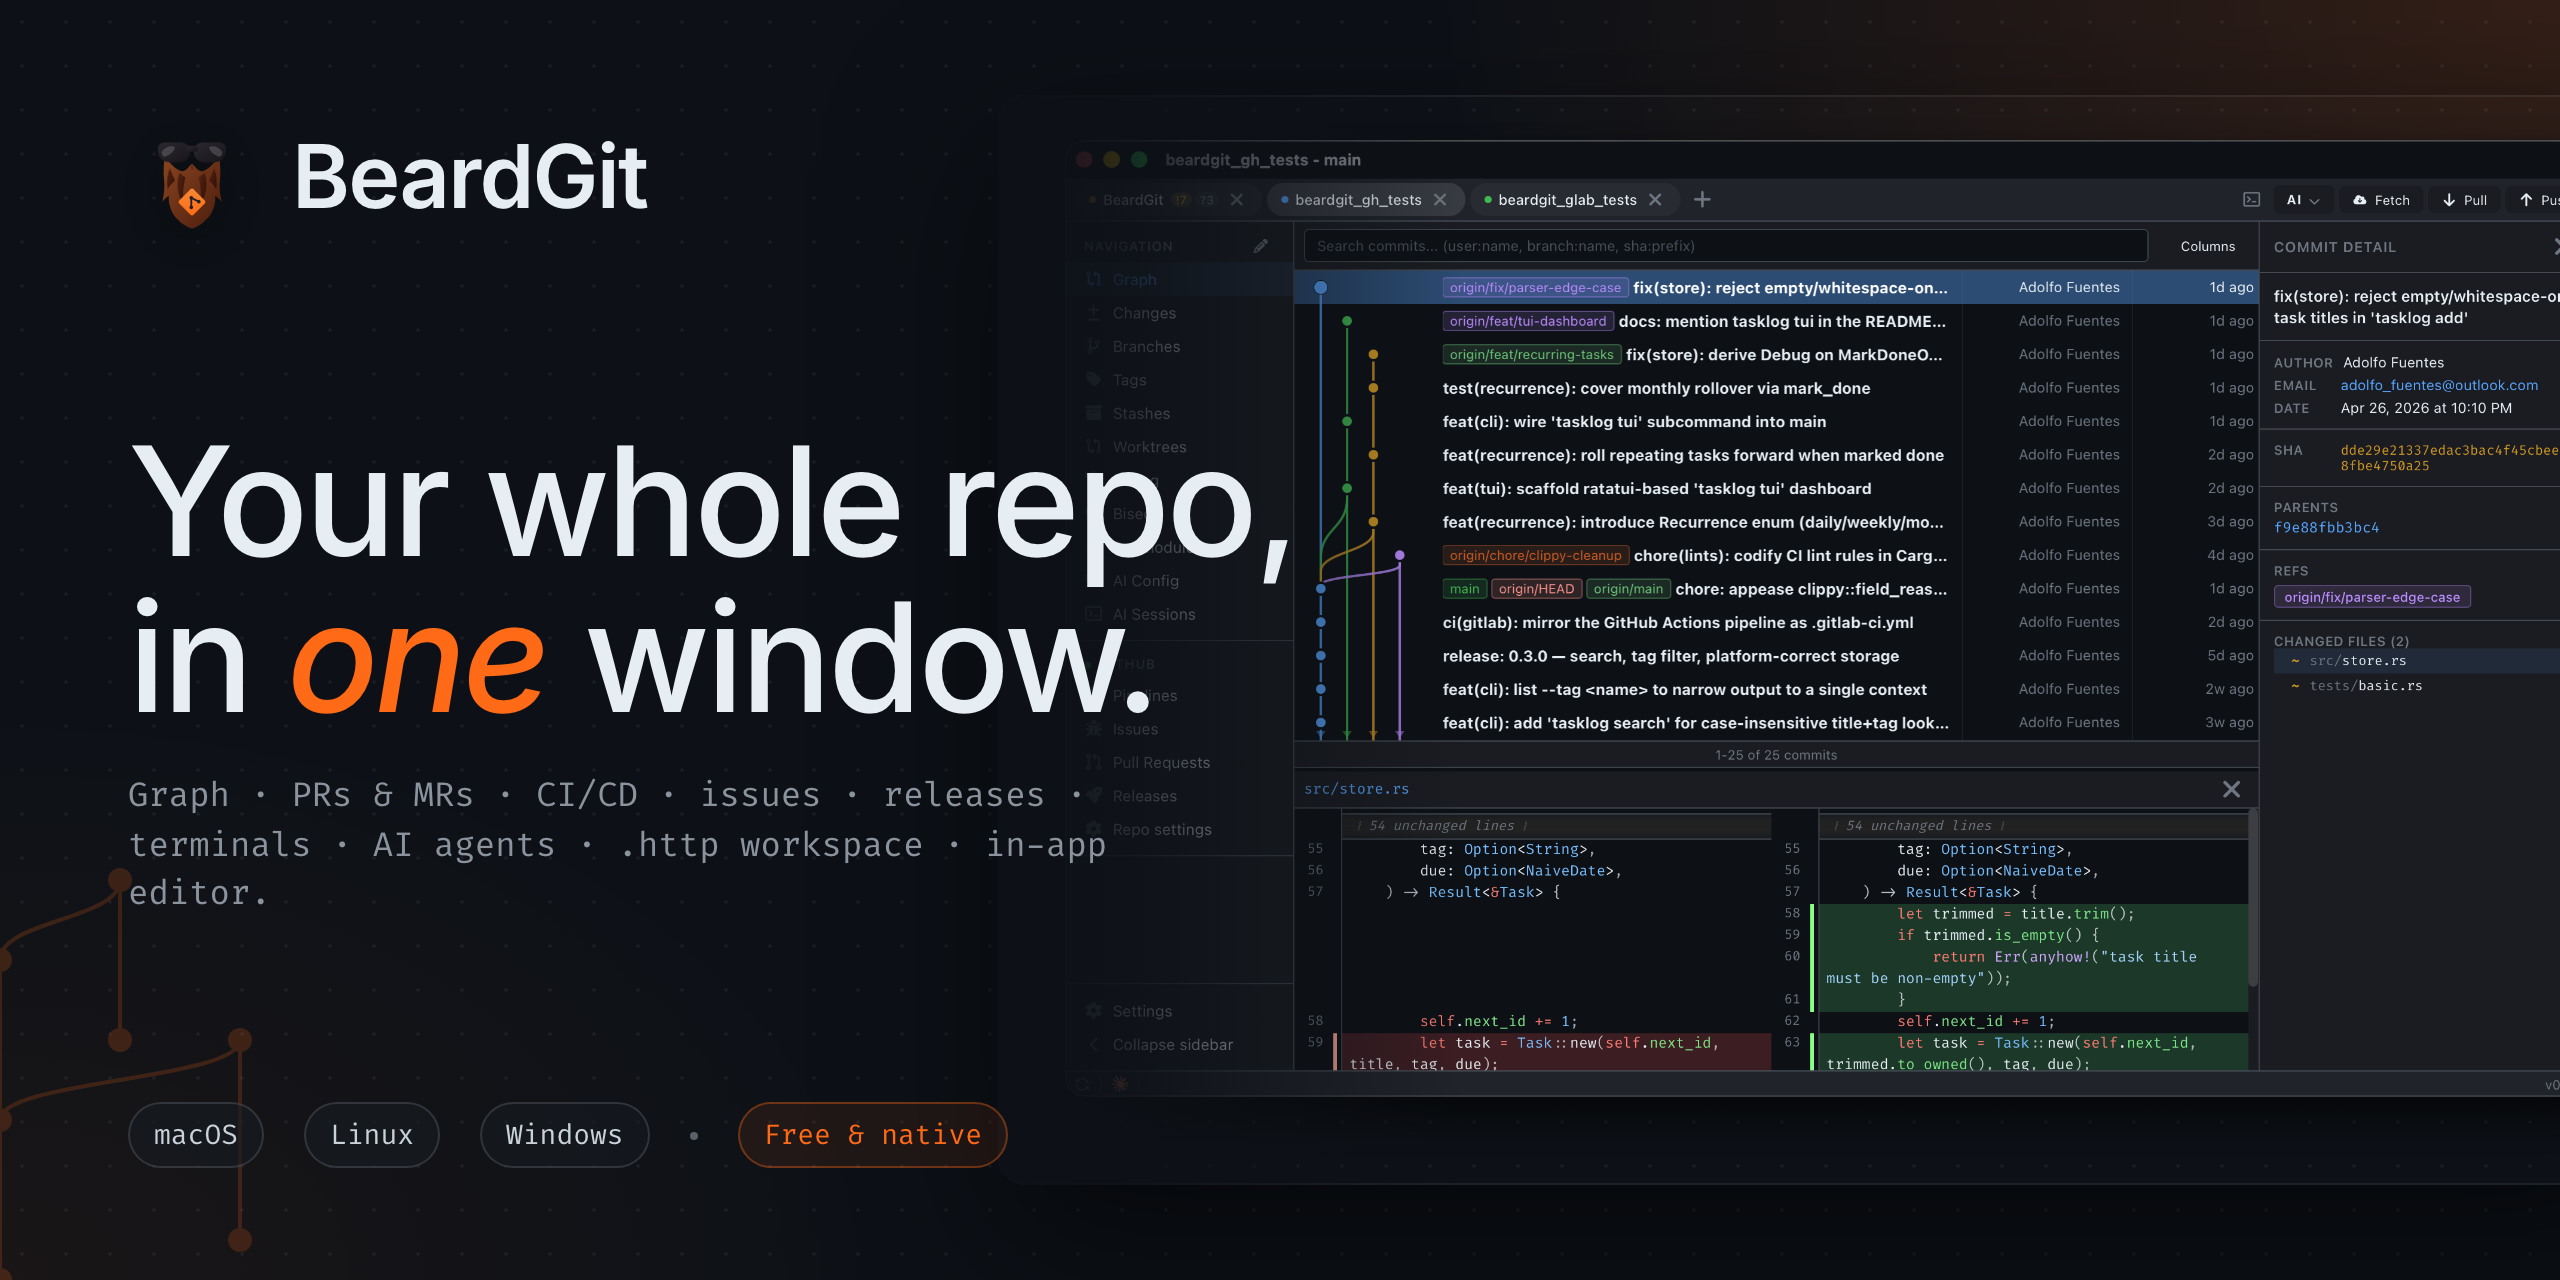
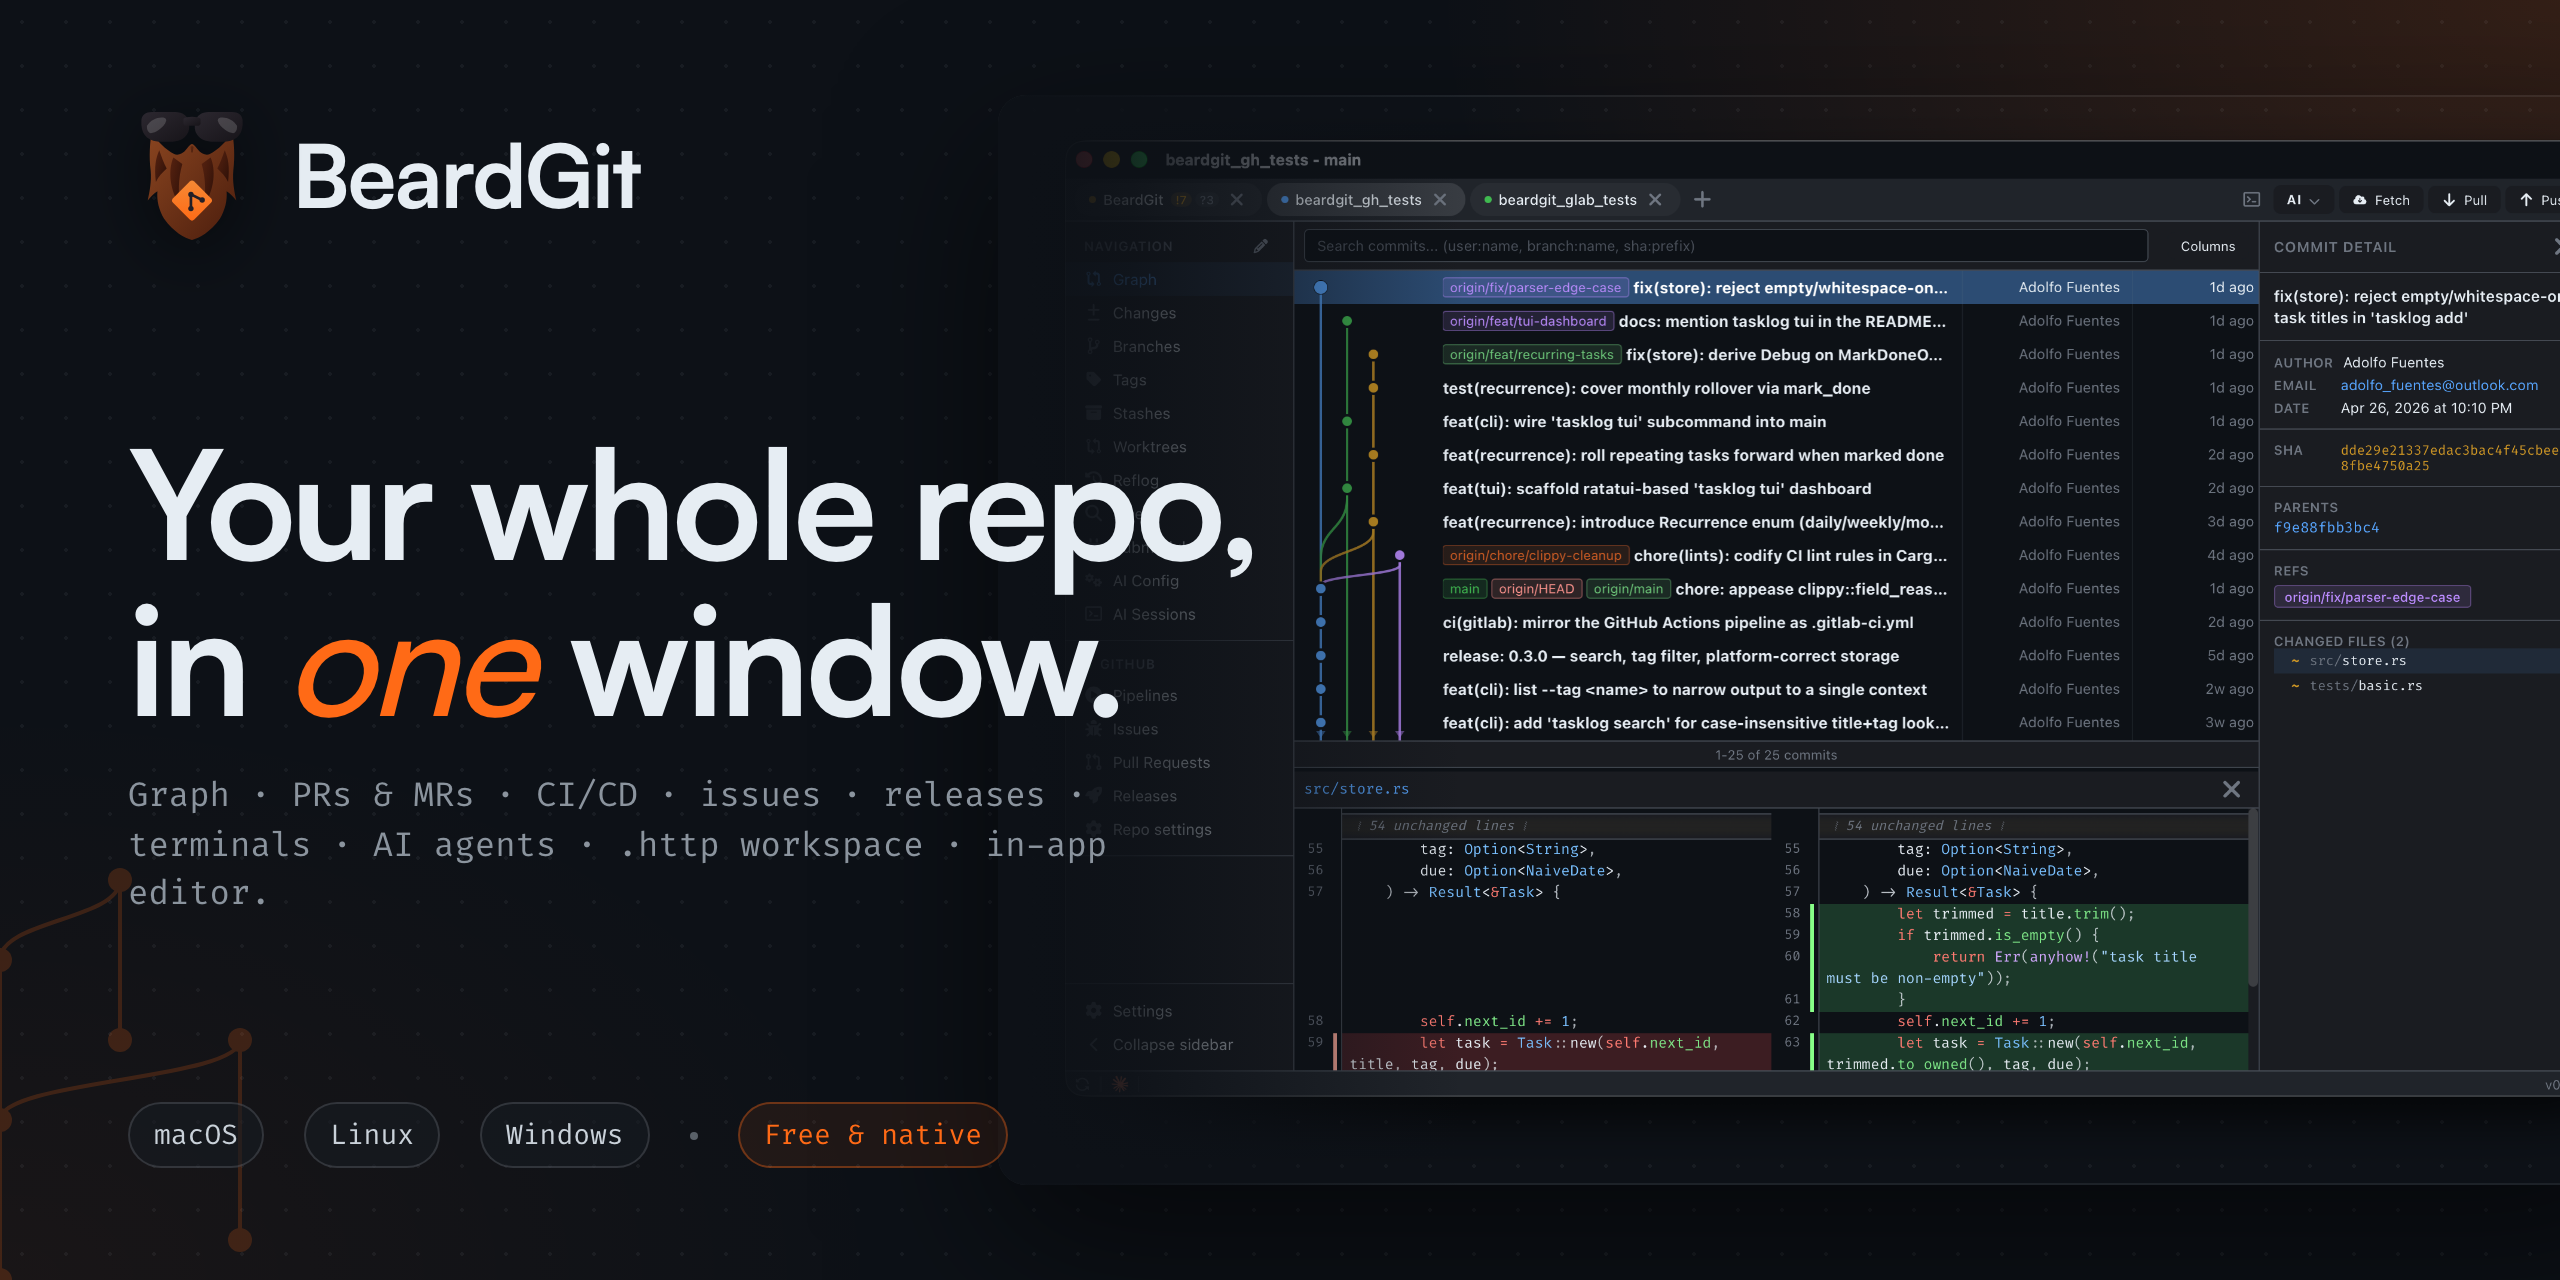
docs(landing): switch to Satoshi + compact feature cards
Two feedback-driven changes packaged together for the next review pass.

Type — Satoshi (Indian Type Foundry):
- Replaces Inter as the display + body family. Loaded from fontshare
  with the full variable spread (300/400/500/700/900 + italics).
- Single token swap (--font-sans) — the rest of the rules pick it up.
- Bump display weights (hero / section h2 / drop-cap) from 600 to 700;
  Satoshi has no 600 grade, and 700 carries the right authority at
  display sizes.
- Card titles drop to 500 to stay readable at ~1rem.
- OG generator updated and both social previews regenerated so they
  match the live site.

Compact feature cards:
- Reviewers couldn't see all 8 cards in one viewport. The grid was
  ~780 px tall (3 rows × 260 px floor). New grid lands in ~280 px:
  - min-height removed; content drives the height.
  - Padding ~30 % tighter.
  - Title from clamp(1.35,2vw,1.7rem) to clamp(1,1.3vw,1.15rem),
    weight 500, with a right pad to clear the icon.
  - Body 0.92rem → 0.84rem.
  - Icon 32px → 22px.
- Drop the two embedded <pre> code samples (AI worktree + .http
  workspace). They padded the cards with 6 extra lines each without
  conveying the value prop — the exact code lives in the README.

Changed region(s): [[0.0312, 0.3438, 0.5, 0.5625], [0.125, 0.0938, 0.25, 0.1875], [0.0312, 0.0938, 0.0938, 0.1875]]

diff --git a/docs/assets/styles.css b/docs/assets/styles.css
@@ -13,8 +13,8 @@
   --brand-green: #3FB950;
   --brand-blue: #2F81F7;
 
-  /* Type stack — Inter (variable) for everything except mono. */
-  --font-sans: "Inter", system-ui, -apple-system, BlinkMacSystemFont, "Segoe UI", Roboto, "Helvetica Neue", Arial, sans-serif;
+  /* Type stack — Satoshi (Indian Type Foundry) for everything except mono. */
+  --font-sans: "Satoshi", system-ui, -apple-system, BlinkMacSystemFont, "Segoe UI", Roboto, "Helvetica Neue", Arial, sans-serif;
   --font-mono: "Fira Code", ui-monospace, SFMono-Regular, Menlo, monospace;
 
   /* Semantic tokens — default to DARK (GitHub dark + BeardGit orange) */
@@ -305,7 +305,7 @@ section + section { border-top: 1px solid var(--rule); }
 
 .hero-title {
   font-size: clamp(3rem, 8.2vw, 7.2rem);
-  font-weight: 600;
+  font-weight: 700;
   line-height: 0.95;
   letter-spacing: -0.035em;
   margin-bottom: 1.5rem;
@@ -466,7 +466,7 @@ section + section { border-top: 1px solid var(--rule); }
 .manifesto-body .italic { color: var(--accent); }
 .manifesto-body::first-letter {
   font-family: var(--font-sans);
-  font-weight: 600;
+  font-weight: 700;
   font-size: 3.6em;
   line-height: 0.9;
   float: left;
@@ -480,7 +480,7 @@ section + section { border-top: 1px solid var(--rule); }
 .section-head { display: flex; justify-content: space-between; align-items: end; gap: 2rem; margin-bottom: 3rem; flex-wrap: wrap; }
 .section-head h2 {
   font-size: clamp(2rem, 4.2vw, 3.6rem);
-  font-weight: 600;
+  font-weight: 700;
   line-height: 1;
   letter-spacing: -0.025em;
   max-width: 14ch;
@@ -498,9 +498,8 @@ section + section { border-top: 1px solid var(--rule); }
   overflow: hidden;
 }
 .feature {
-  padding: clamp(1.5rem, 2.4vw, 2.2rem);
+  padding: clamp(1.1rem, 1.6vw, 1.5rem) clamp(1.2rem, 1.8vw, 1.6rem);
   background: var(--bg);
-  min-height: 260px;
   min-width: 0;
   position: relative;
   transition: background .25s;
@@ -509,20 +508,20 @@ section + section { border-top: 1px solid var(--rule); }
 }
 /* legacy modifiers neutralised — grid is uniform now */
 .feature.wide,
-.feature.tall { grid-column: auto; grid-row: auto; min-height: 260px; }
+.feature.tall { grid-column: auto; grid-row: auto; }
 .feature:hover { background: var(--bg-elev); }
-.feature-num { font-family: var(--font-mono); font-size: 0.72rem; color: var(--fg-muted); letter-spacing: 0.14em; }
-.feature-title { font-family: var(--font-sans); font-weight: 600; font-size: clamp(1.35rem, 2vw, 1.7rem); line-height: 1.2; margin: 0.5rem 0 0.8rem; letter-spacing: -0.01em; }
+.feature-num { font-family: var(--font-mono); font-size: 0.66rem; color: var(--fg-muted); letter-spacing: 0.16em; }
+.feature-title { font-family: var(--font-sans); font-weight: 500; font-size: clamp(1rem, 1.3vw, 1.15rem); line-height: 1.3; margin: 0.35rem 0 0.45rem; letter-spacing: -0.01em; padding-right: 2rem; }
 .feature-title .italic { color: var(--accent); }
-.feature-body { color: var(--fg-dim); font-size: 0.92rem; line-height: 1.55; }
+.feature-body { color: var(--fg-dim); font-size: 0.84rem; line-height: 1.5; }
 .feature-icon {
   position: absolute;
-  top: clamp(1.5rem, 2.4vw, 2.2rem);
-  right: clamp(1.5rem, 2.4vw, 2.2rem);
+  top: clamp(1.1rem, 1.6vw, 1.5rem);
+  right: clamp(1.2rem, 1.8vw, 1.6rem);
   color: var(--fg-muted);
   transition: color .25s, transform .4s cubic-bezier(.2,.7,.3,1);
 }
-.feature-icon svg { width: 32px; height: 32px; }
+.feature-icon svg { width: 22px; height: 22px; }
 .feature:hover .feature-icon { color: var(--accent); transform: rotate(6deg) scale(1.1); }
 
 .feature pre {

diff --git a/docs/index.html b/docs/index.html
@@ -33,7 +33,10 @@
 
   <link rel="preconnect" href="https://fonts.googleapis.com" />
   <link rel="preconnect" href="https://fonts.gstatic.com" crossorigin />
-  <link href="https://fonts.googleapis.com/css2?family=Inter:ital,wght@0,400..700;1,400..700&family=Fira+Code:wght@400;500&display=swap" rel="stylesheet" />
+  <link rel="preconnect" href="https://api.fontshare.com" />
+  <link rel="preconnect" href="https://cdn.fontshare.com" crossorigin />
+  <link href="https://fonts.googleapis.com/css2?family=Fira+Code:wght@400;500&display=swap" rel="stylesheet" />
+  <link href="https://api.fontshare.com/v2/css?f[]=satoshi@300,301,400,401,500,501,700,701,900,901&display=swap" rel="stylesheet" />
   <link rel="stylesheet" href="assets/styles.css" />
 
   <script type="application/ld+json">
@@ -436,12 +439,7 @@
           </div>
           <div class="feature-num">04 / 08</div>
           <h3 class="feature-title">Your own AI CLI, in a <span class="italic">worktree</span>.</h3>
-          <p class="feature-body">BeardGit drives <strong>your local install</strong> of Claude Code, Codex, or OpenCode in a fresh worktree — no terminal, no key juggling. Each run lands on its own <code class="mono">ai/&lt;provider&gt;/&lt;slug&gt;</code> branch you can review, merge, or discard.</p>
-<pre><span class="cm"># Cmd+Shift+A — pick prompt + provider + worktree root</span>
-<span class="kw">AiBackgroundCoordinator</span>::queue(run) <span class="cm">// FIFO</span>
-  .launch(<span class="str">"claude-code"</span>, <span class="str">"--print --stream-json"</span>)
-  .in_worktree(<span class="str">".beardgit/ai-worktrees/&lt;id&gt;"</span>)
-  .cap(<span class="num">3</span>) <span class="cm">// concurrent runs</span></pre>
+          <p class="feature-body">BeardGit drives <strong>your local install</strong> of Claude Code, Codex, or OpenCode in a fresh worktree. Each run lands on its own <code class="mono">ai/&lt;provider&gt;/&lt;slug&gt;</code> branch — review, merge, or discard.</p>
         </div>
 
         <div class="feature wide reveal">
@@ -495,10 +493,7 @@
           </div>
           <div class="feature-num">08 / 08</div>
           <h3 class="feature-title">An <span class="italic">.http</span> workspace, in your repo.</h3>
-          <p class="feature-body">Plain <code class="mono">.http</code> files under <code class="mono">.beardgit/requests/</code>, committed with the project — <code class="mono">git pull</code> shares them with the team. Envs in commit-safe JSON, secrets encrypted locally. <code class="mono">{{var}}</code> autocomplete, response diff between any two runs, Copy-as cURL / fetch / HTTPie.</p>
-<pre><span class="cm"># .beardgit/requests/users/get.http</span>
-<span class="kw">GET</span> {{base_url}}/users/{{user_id}}
-<span class="kw">Authorization:</span> Bearer {{api_token}}</pre>
+          <p class="feature-body">Plain <code class="mono">.http</code> files in your repo, committed with the project. Envs in JSON, secrets encrypted locally. Response diff between any two runs.</p>
         </div>
       </div>
     </div>

diff --git a/scripts/build-og.html b/scripts/build-og.html
@@ -5,7 +5,8 @@
   <title>BeardGit — OG composition</title>
   <link rel="preconnect" href="https://fonts.googleapis.com" />
   <link rel="preconnect" href="https://fonts.gstatic.com" crossorigin />
-  <link href="https://fonts.googleapis.com/css2?family=Inter:ital,wght@0,400..700;1,400..700&family=Fira+Code:wght@400;500&display=swap" rel="stylesheet" />
+  <link href="https://fonts.googleapis.com/css2?family=Fira+Code:wght@400;500&display=swap" rel="stylesheet" />
+  <link href="https://api.fontshare.com/v2/css?f[]=satoshi@400,500,700&display=swap" rel="stylesheet" />
   <style>
     :root {
       --bg: #0D1117;
@@ -22,7 +23,7 @@
       padding: 0;
       background: var(--bg);
       color: var(--fg);
-      font-family: "Inter", system-ui, -apple-system, sans-serif;
+      font-family: "Satoshi", system-ui, -apple-system, sans-serif;
       -webkit-font-smoothing: antialiased;
       text-rendering: geometricPrecision;
     }
@@ -102,8 +103,8 @@
       filter: drop-shadow(0 6px 16px rgba(0, 0, 0, 0.5));
     }
     .brand .wordmark {
-      font-family: "Inter", system-ui, -apple-system, sans-serif;
-      font-weight: 600;
+      font-family: "Satoshi", system-ui, -apple-system, sans-serif;
+      font-weight: 700;
       font-size: 44px;
       letter-spacing: -0.02em;
       line-height: 1;
@@ -116,8 +117,8 @@
       gap: 18px;
     }
     .tagline {
-      font-family: "Inter", system-ui, -apple-system, sans-serif;
-      font-weight: 500;
+      font-family: "Satoshi", system-ui, -apple-system, sans-serif;
+      font-weight: 700;
       font-size: 76px;
       line-height: 1.02;
       letter-spacing: -0.025em;
@@ -181,7 +182,7 @@
       --h: 630px;
     }
     .stage.size-og .content { padding: 52px 0 52px 60px; }
-    .stage.size-og .tagline { font-size: 70px; }
+    .stage.size-og .tagline { font-size: 70px; font-weight: 700; }
     .stage.size-og .brand .wordmark { font-size: 42px; }
     .stage.size-og .brand .logo { width: 60px; height: 60px; }
   </style>
